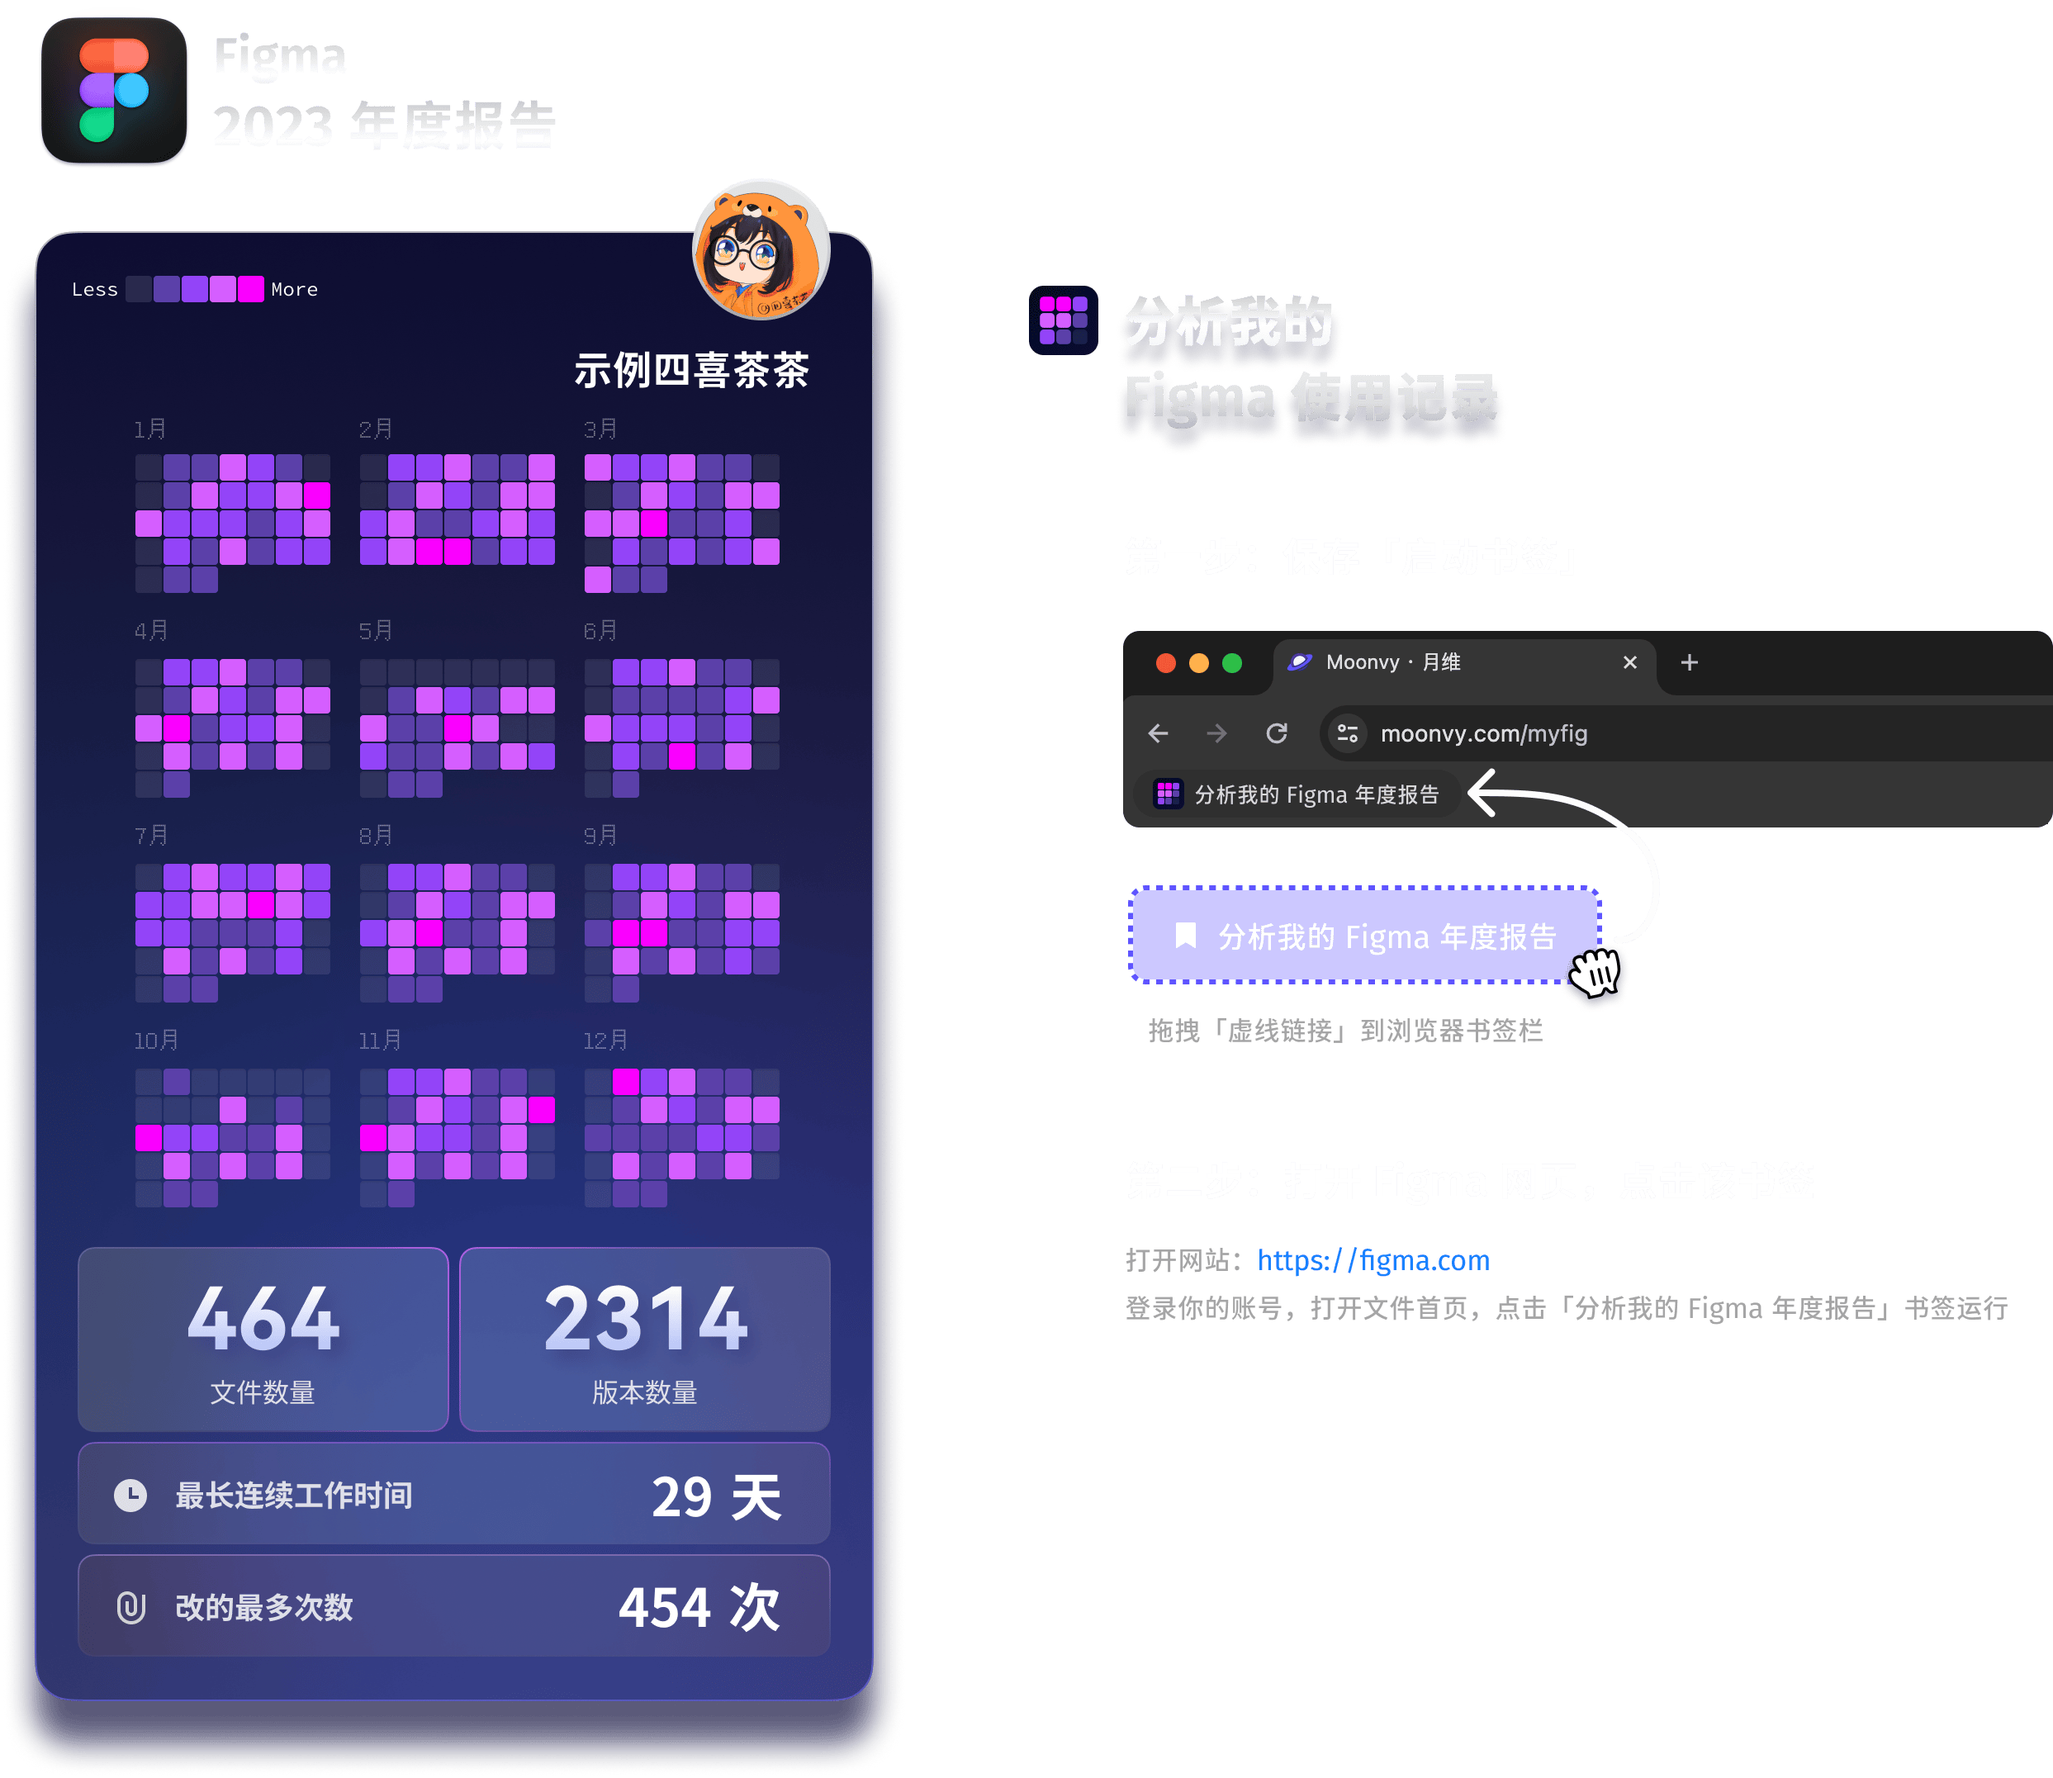
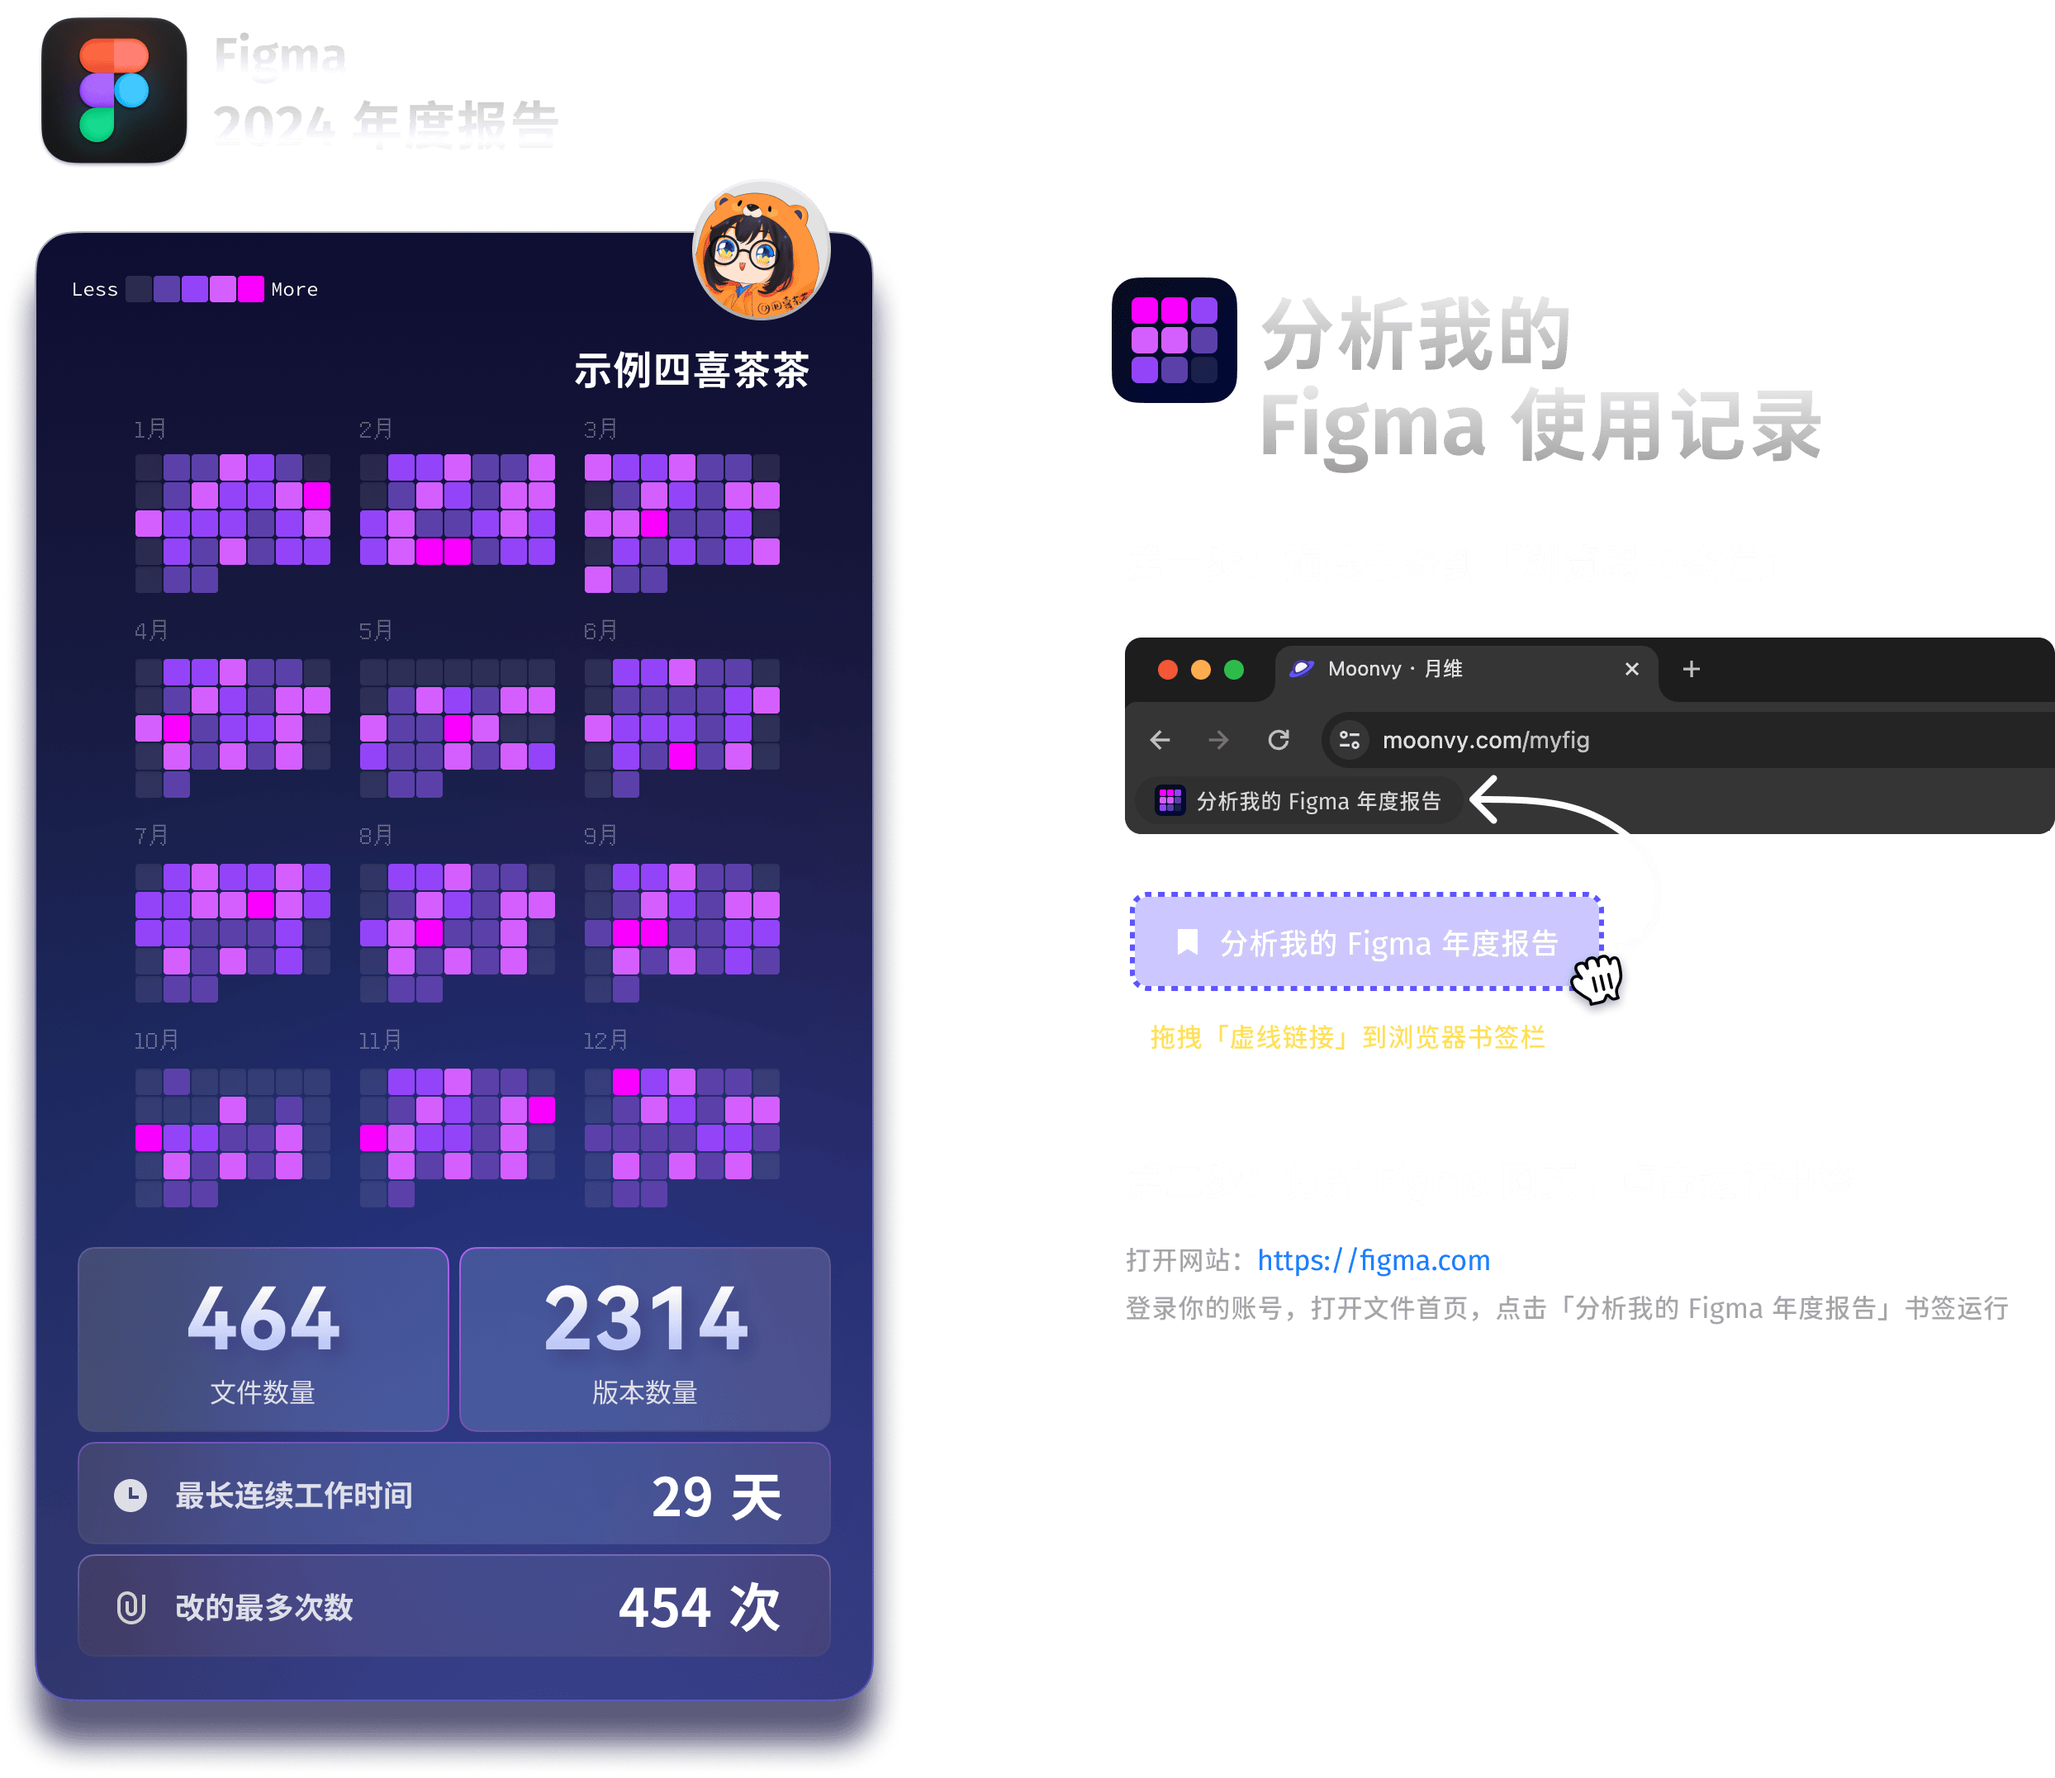
2024

diff --git a/website/index.html b/website/index.html
@@ -230,7 +230,7 @@
 
                     <div class="desc">
                         <h1>分析我的 Figma 年度报告</h1>
-                        <p>2 步生成你的 Figma 2023 年度报告</p>
+                        <p>2 步生成你的 Figma 2024 年度报告</p>
                         <p>生成你的 Figma 使用记录，生成可供分享的共享图，就像 Github 共享图一样</p>
                     </div>
 

diff --git a/website/Index.vue b/website/Index.vue
@@ -18,7 +18,7 @@
 
             <div class="desc">
                 <h1>分析我的 Figma 年度报告</h1>
-                <p>2 步生成你的 Figma 2023 年度报告</p>
+                <p>2 步生成你的 Figma 2024 年度报告</p>
                 <p>生成你的 Figma 使用记录，生成可供分享的共享图，就像 Github 共享图一样</p>
             </div>
 

diff --git a/src/ui/App.vue b/src/ui/App.vue
@@ -130,7 +130,7 @@ export default {
             isScaning: false,
             scan_progress: 0,
             scan_progress_text: "",
-            activeYearNumber: 2023,
+            activeYearNumber: 2024,
             activeUserIndex: 0,
             isExporting: false,
 
